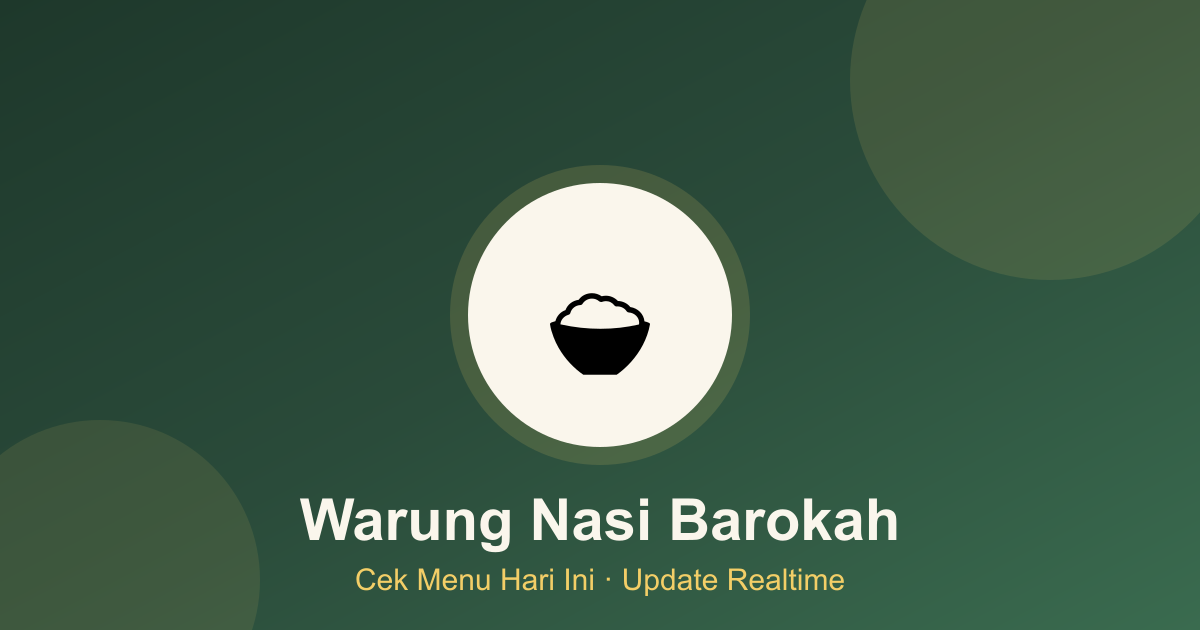
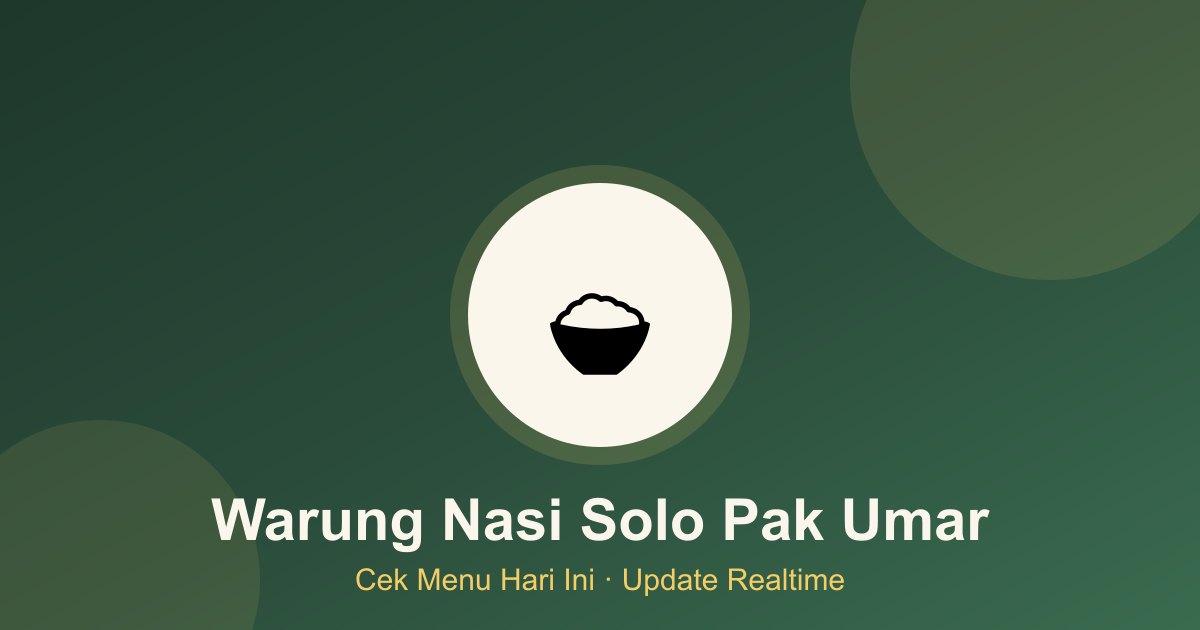
Ganti nama warung: Warung Nasi Solo Pak Umar (metadata, manifest, OG image)

Changed region(s): [[0.1542, 0.7841, 0.8325, 0.8746]]

diff --git a/app/layout.tsx b/app/layout.tsx
@@ -13,12 +13,12 @@ const SITE_URL = process.env.SITE_URL?.trim() || "http://localhost:3000";
 
 export const metadata: Metadata = {
   metadataBase: new URL(SITE_URL),
-  title: "Warung Nasi Barokah — Menu Hari Ini",
+  title: "Warung Nasi Solo Pak Umar — Menu Hari Ini",
   description:
-    "Cek menu terbaru dan ketersediaan menu Warung Nasi Barokah. Update realtime!",
+    "Cek menu terbaru dan ketersediaan menu Warung Nasi Solo Pak Umar. Update realtime!",
   // Open Graph — preview cantik saat link di-share ke WhatsApp/social media
   openGraph: {
-    title: "Warung Nasi Barokah — Menu Hari Ini",
+    title: "Warung Nasi Solo Pak Umar — Menu Hari Ini",
     description:
       "Cek menu yang ready hari ini! Update langsung tanpa perlu tanya-tanya.",
     images: ["/og-image.png"],
@@ -28,7 +28,7 @@ export const metadata: Metadata = {
   // Twitter card
   twitter: {
     card: "summary_large_image",
-    title: "Warung Nasi Barokah — Menu Hari Ini",
+    title: "Warung Nasi Solo Pak Umar — Menu Hari Ini",
     description: "Cek menu yang ready hari ini!",
     images: ["/og-image.png"],
   },
